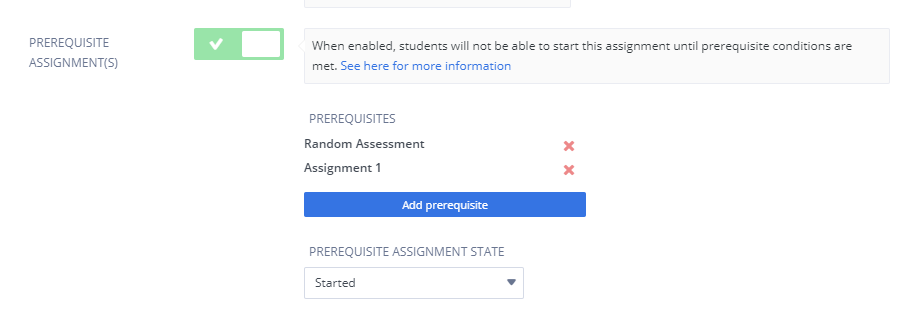
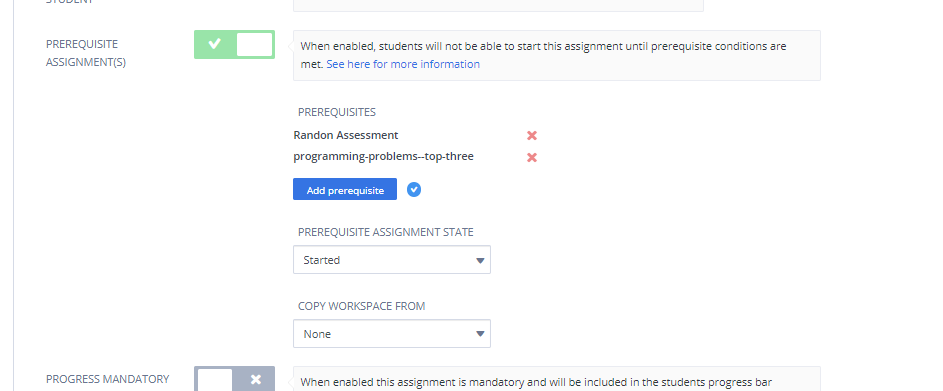
Firewallchanges  (#159)
* remove port requirements

* changelog #13965

* changelog #13965

diff --git a/source/instructors/setupcourses/assignment-settings/prerequisite-assignments.rst b/source/instructors/setupcourses/assignment-settings/prerequisite-assignments.rst
@@ -7,7 +7,7 @@
 Prerequisite Assignments
 ========================
 
-The **Prerequisite Assignment** is used to set requirements based on other published assignments in the course so that students cannot start the assignment until they have been met.
+The **Prerequisite Assignment** is used to set requirements based on other published assignments in the course so that students cannot start the assignment until they have been met. 
 
 The prerequisite states that can be set are:
 
@@ -24,3 +24,16 @@ When enabled, students can start the assignment if the requirements are met. If 
 
   .. image:: /img/student-prerequisite.png
      :alt: Student Warning
+
+Copy workspace from Prerequisite Assignment
+-------------------------------------------
+
+The **Copy Workspace From** setting allows you to copy content from one assignment to a subsequent assignment.
+
+.. Important:: This will only pull the workspace in upon the first opening of the assignment (when it is created for the student) -- there is no update mechanism. Because of this, we highly encourage you to setup the prerequisite assignment state to **Completed**. 
+
+When the assignment is created by the student, the workspace files/folders (excluding **.guides**, **.git** folder, any node modules and any **.codio**, **.codio-menu** or **.settings** files) of the assignment selected in the dropdown will be copied into the prerequisite assignment's workspace and will be included in the new assignment. 
+
+If a file of the same name exists in both assignnments, the most recent changes to the initial assignment and will be updated in the subsequent assignment. This will apply to changes that students made.
+
+

diff --git a/source/instructors/getstarted/support/changelog.rst b/source/instructors/getstarted/support/changelog.rst
@@ -15,6 +15,7 @@ We do not report small bug fixes or issues that affect individual users, who we 
 
 **May 2022**
 
+- `[F] [26th]`: Add ability to copy :ref:`prerequisite <prerequisite>` assignment workspace to subsequent assignment for students
 - `[I] [23rd]`: Update Home/End button navigation when grading students
 - `[I] [20th]`: Allow submit buttons to be suppressed for Standard and Advanced Code tests
 - `[I] [18th]`: Add support for 'no access until grades released' for student assignment visibility

diff --git a/source/common/develop/general.rst b/source/common/develop/general.rst
@@ -108,8 +108,6 @@ Ports
 We recommend opening the following ports
 
 - **80 and 443** for standard communications
-- **3000** is a standard port for user projects
-- **9500** is a standard SSL port for user projects
 
 Working from home
 *****************
